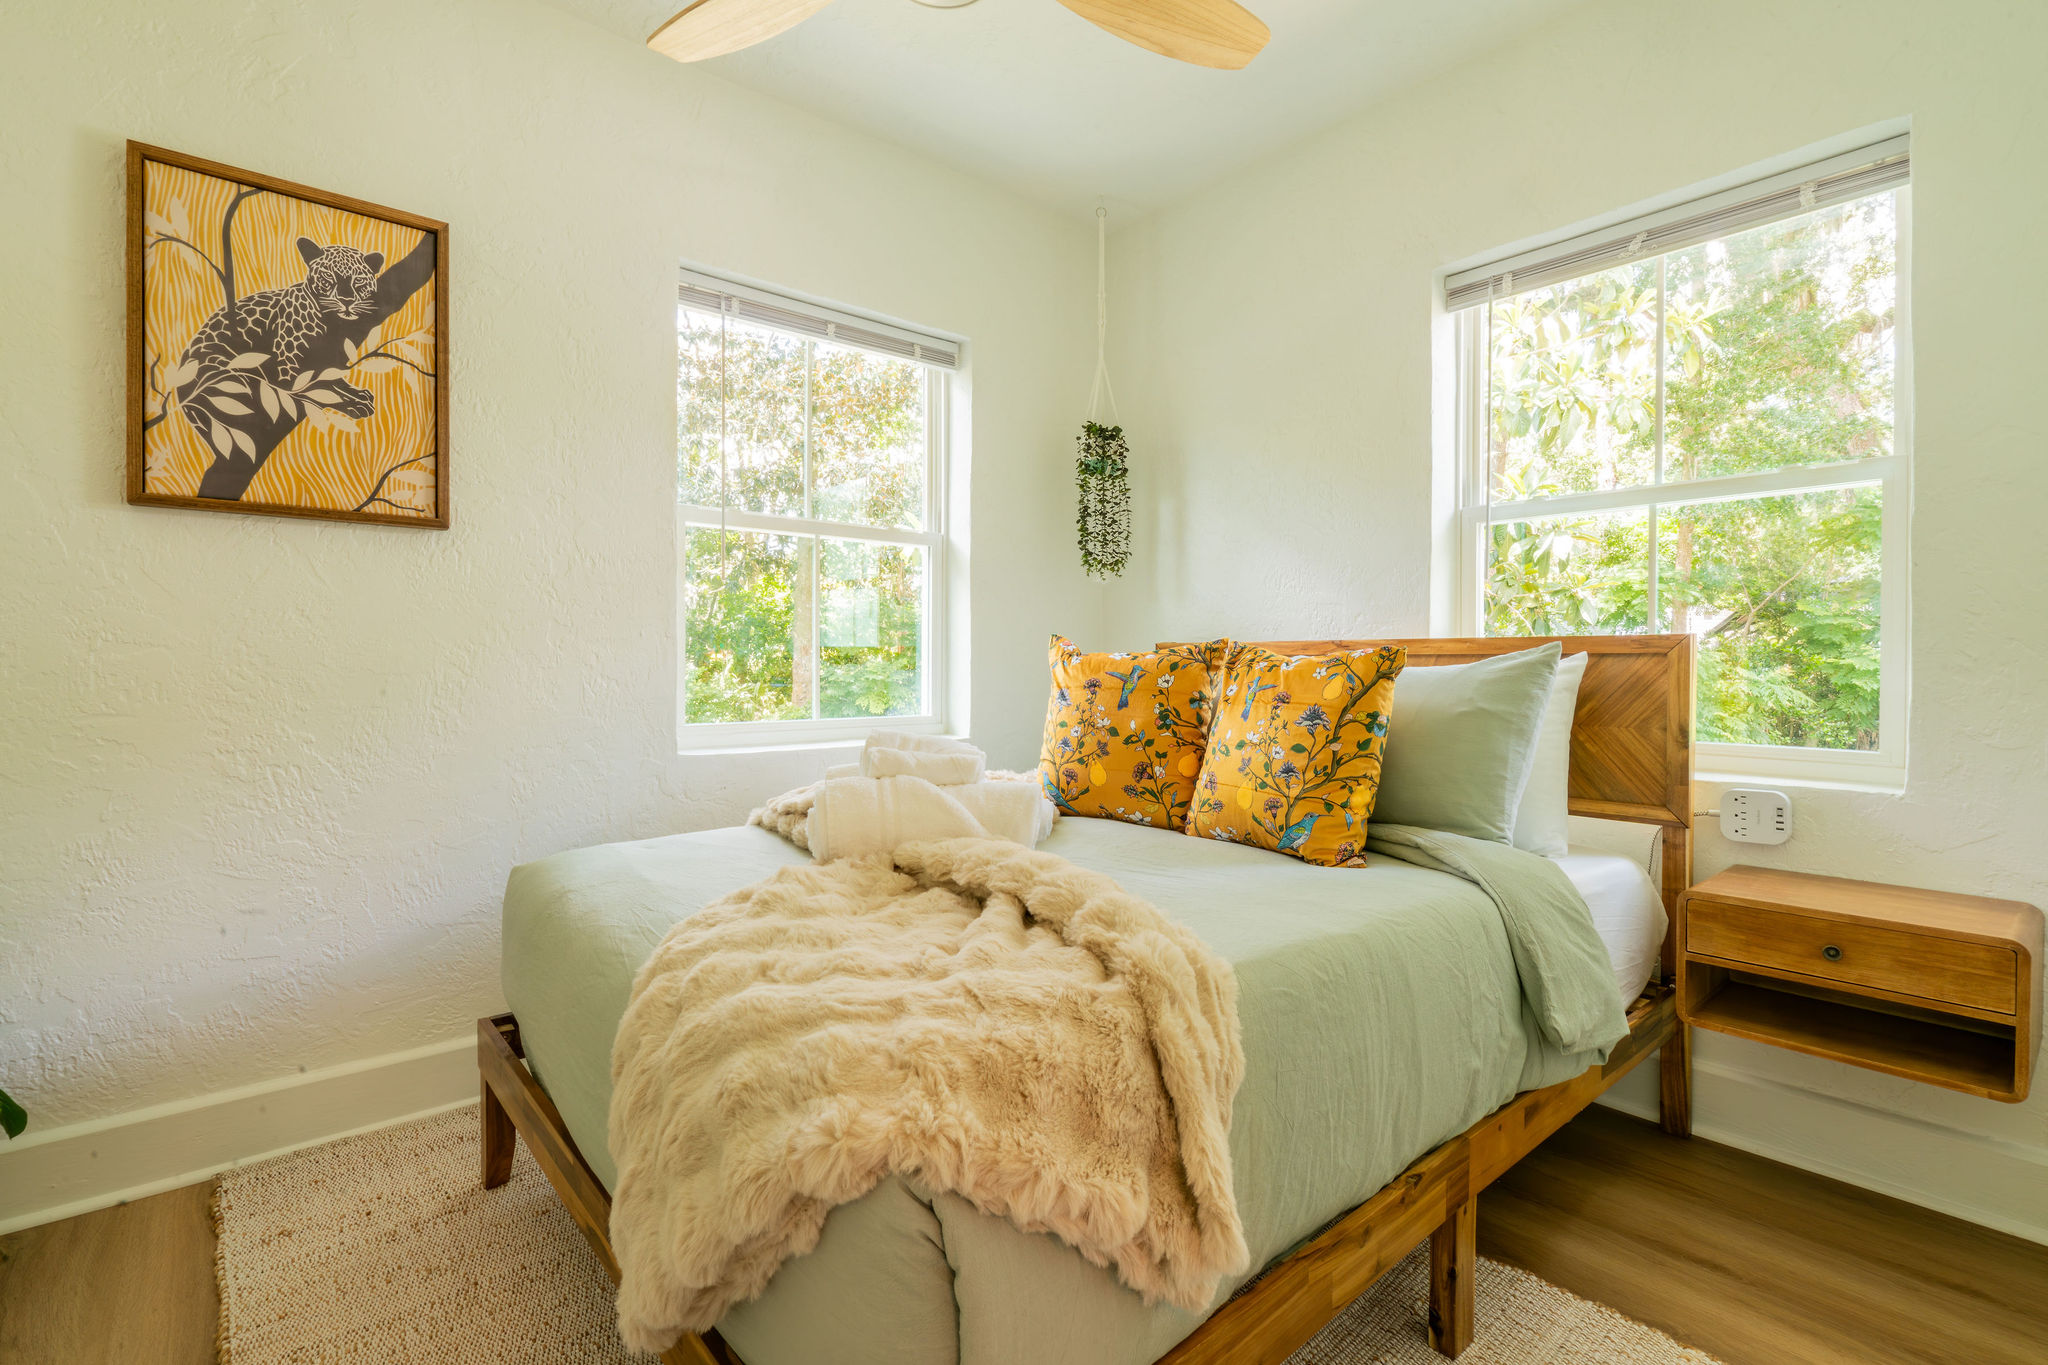
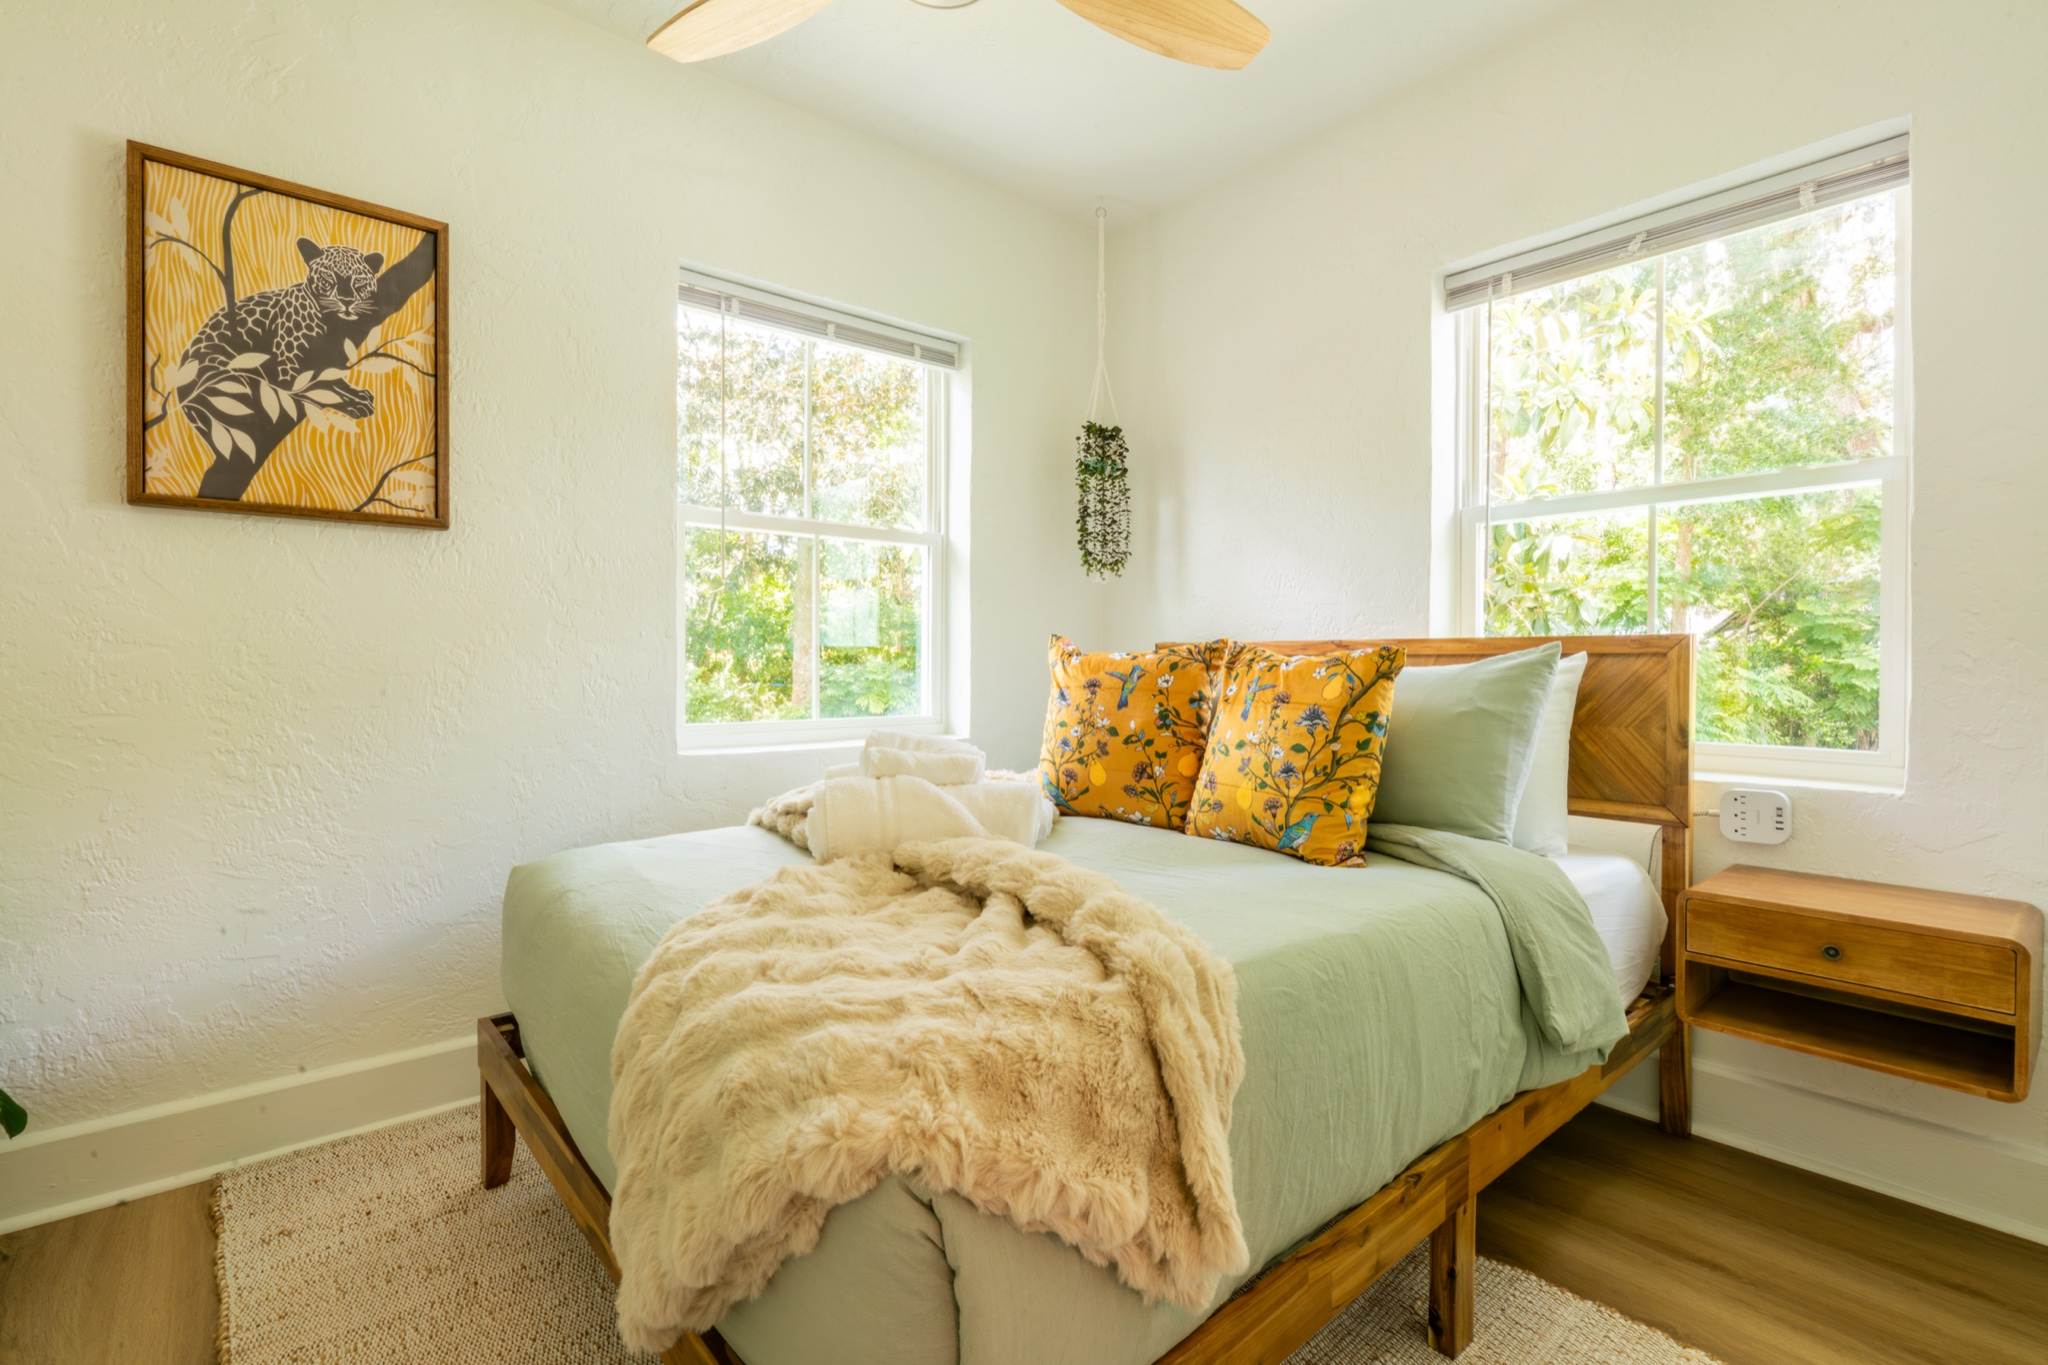
Update bedroom photo, add 3 new photos, reorder gallery
- Replace gallery-20.jpg with the revised higher-res bedroom shot
- Move gallery-14 (bathroom, tiger wallpaper) from near the bottom
  up to position 6
- Add 3 new photos: magazine-reading close-up and couple-with-wine
  shots placed in the middle, green tiled bathroom placed last

diff --git a/gallery.html b/gallery.html
@@ -102,22 +102,25 @@
     "images/gallery/gallery-02.jpg", // bedroom, mirror, Jungle Cat sign on TV
     "images/gallery/gallery-04.jpg", // front door opening
     "images/gallery/gallery-01.jpg", // hallway, moth/butterfly art
+    "images/gallery/gallery-14.jpg", // bathroom, tiger wallpaper - moved up
     "images/gallery/gallery-17.jpg",
     "images/gallery/gallery-13.jpg", // woman reading, tea, banana-leaf art
     "images/gallery/gallery-09.jpg", // daytime patio, checkered floor
     "images/gallery/gallery-18.jpg",
     "images/gallery/gallery-19.jpg",
-    "images/gallery/gallery-20.jpg",
+    "images/gallery/gallery-20.jpg", // bedroom, leopard art (revised photo)
+    "images/gallery/gallery-22.jpg", // NEW: magazine + tea close-up (through leaves)
     "images/gallery/gallery-21.jpg", // nightstand lamp, tiger art, window
+    "images/gallery/gallery-23.jpg", // NEW: couple with wine by leopard/bird art
     "images/gallery/gallery-03.jpg",
     "images/gallery/gallery-05.jpg",
     "images/gallery/gallery-06.jpg",
     "images/gallery/gallery-07.jpg",
     "images/gallery/gallery-08.jpg",
     "images/gallery/gallery-11.jpg",
-    "images/gallery/gallery-14.jpg",
     "images/gallery/gallery-15.jpg",
-    "images/gallery/gallery-16.jpg", // nighttime backyard patio, moved to bottom
+    "images/gallery/gallery-16.jpg", // nighttime backyard patio
+    "images/gallery/gallery-24.jpg", // NEW: green tiled bathroom - last
   ];
 
   const grid = document.getElementById('fullGalleryGrid');
